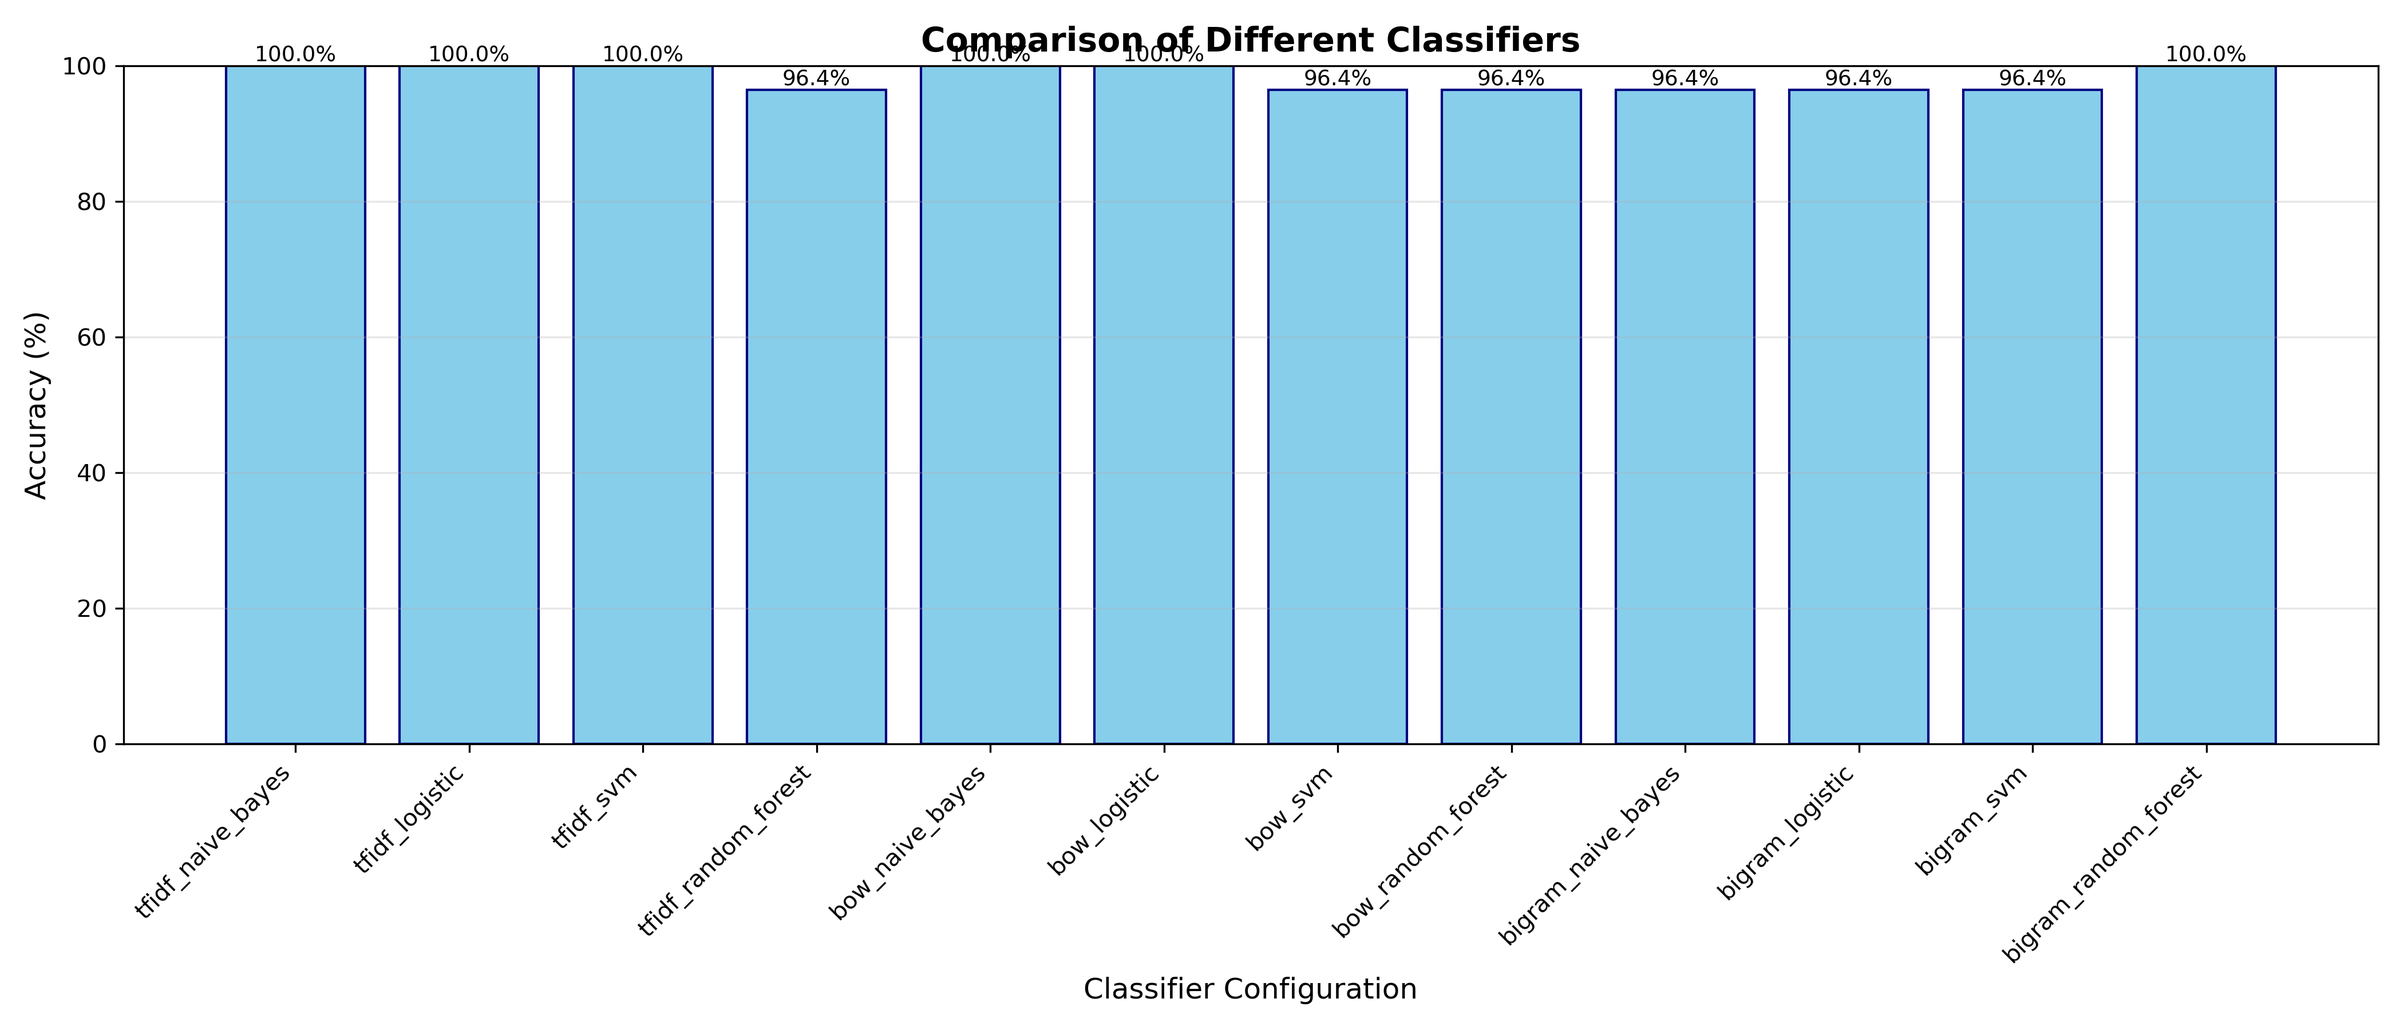
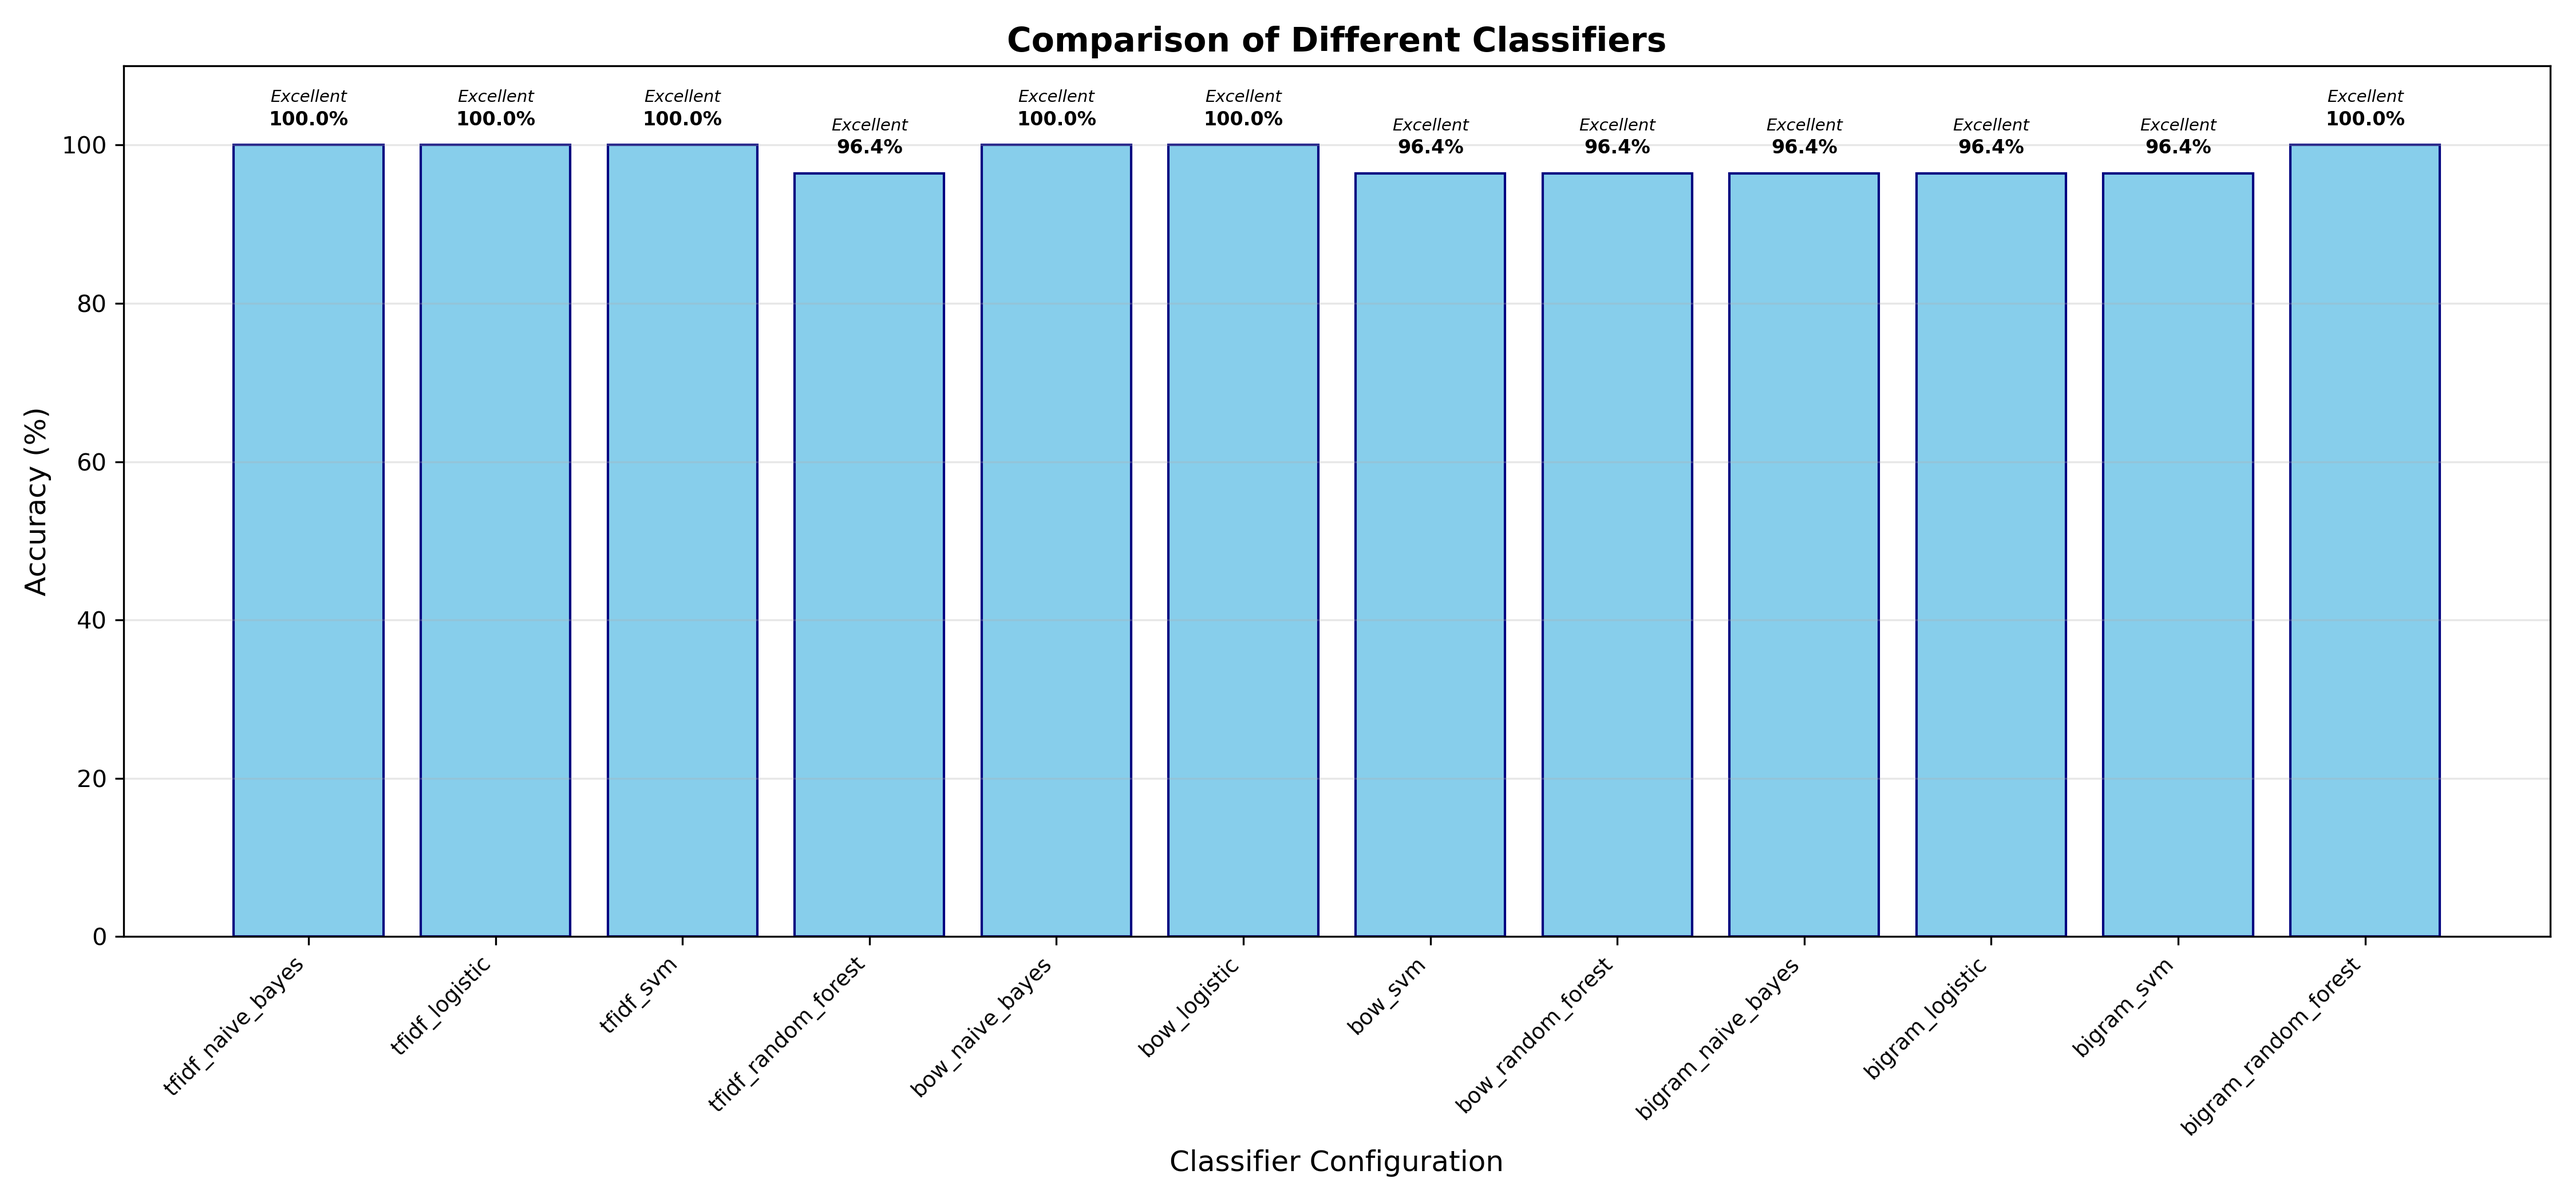
fixed confusion matrix and evaluation file

diff --git a/evaluation.py b/evaluation.py
@@ -205,7 +205,22 @@ def compare_classifiers():
     print("="*50)
     print("="*50)
     
-    return results
+    return all_results
+
+def get_performance_level(accuracy):
+    """
+    Classify performance based on accuracy percentage
+    """
+    if accuracy >= 95:
+        return 'Excellent'
+    elif accuracy >= 90:
+        return 'Very Good'
+    elif accuracy >= 85:
+        return 'Good'
+    elif accuracy >= 80:
+        return 'Fair'
+    else:
+        return 'Needs Improvement'
 
 def create_comparison_plots(results):
     """
@@ -220,21 +235,25 @@ def create_comparison_plots(results):
         accuracies.append(value['accuracy'])
     
     # create bar plot
-    plt.figure(figsize=(14, 6))
+    plt.figure(figsize=(15, 7))
     bars = plt.bar(range(len(names)), accuracies, color='skyblue', edgecolor='navy')
     plt.xlabel('Classifier Configuration', fontsize=12)
     plt.ylabel('Accuracy (%)', fontsize=12)
     plt.title('Comparison of Different Classifiers', fontsize=14, fontweight='bold')
-    plt.xticks(range(len(names)), names, rotation=45, ha='right')
-    plt.ylim(0, 100)
+    plt.xticks(range(len(names)), names, rotation=45, ha='right', fontsize=9)
+    plt.ylim(0, 110)
     plt.grid(axis='y', alpha=0.3)
     
     # add value labels on bars
     for i, bar in enumerate(bars):
         height = bar.get_height()
-        plt.text(bar.get_x() + bar.get_width()/2., height,
+        level = get_performance_level(height)
+        plt.text(bar.get_x() + bar.get_width()/2., height + 2,
                 f'{height:.1f}%',
-                ha='center', va='bottom', fontsize=9)
+                ha='center', va='bottom', fontsize=8, fontweight='bold')
+        plt.text(bar.get_x() + bar.get_width()/2., height + 5,
+                f'{level}',
+                ha='center', va='bottom', fontsize=7, style='italic')
     
     plt.tight_layout()
     
@@ -268,8 +287,9 @@ def save_results_to_file(results):
         f.write("="*60 + "\n\n")
         
         for config, metrics in results.items():
+            level = get_performance_level(metrics['accuracy'])
             f.write(f"Configuration: {config}\n")
-            f.write(f"  Accuracy: {metrics['accuracy']:.2f}%\n")
+            f.write(f"  Accuracy: {metrics['accuracy']:.2f}% ({level})\n")
             f.write(f"  Training Time: {metrics['training_time']:.4f} seconds\n")
             f.write(f"  Prediction Time: {metrics['prediction_time']:.4f} seconds\n")
             f.write(f"  Confusion Matrix:\n")
